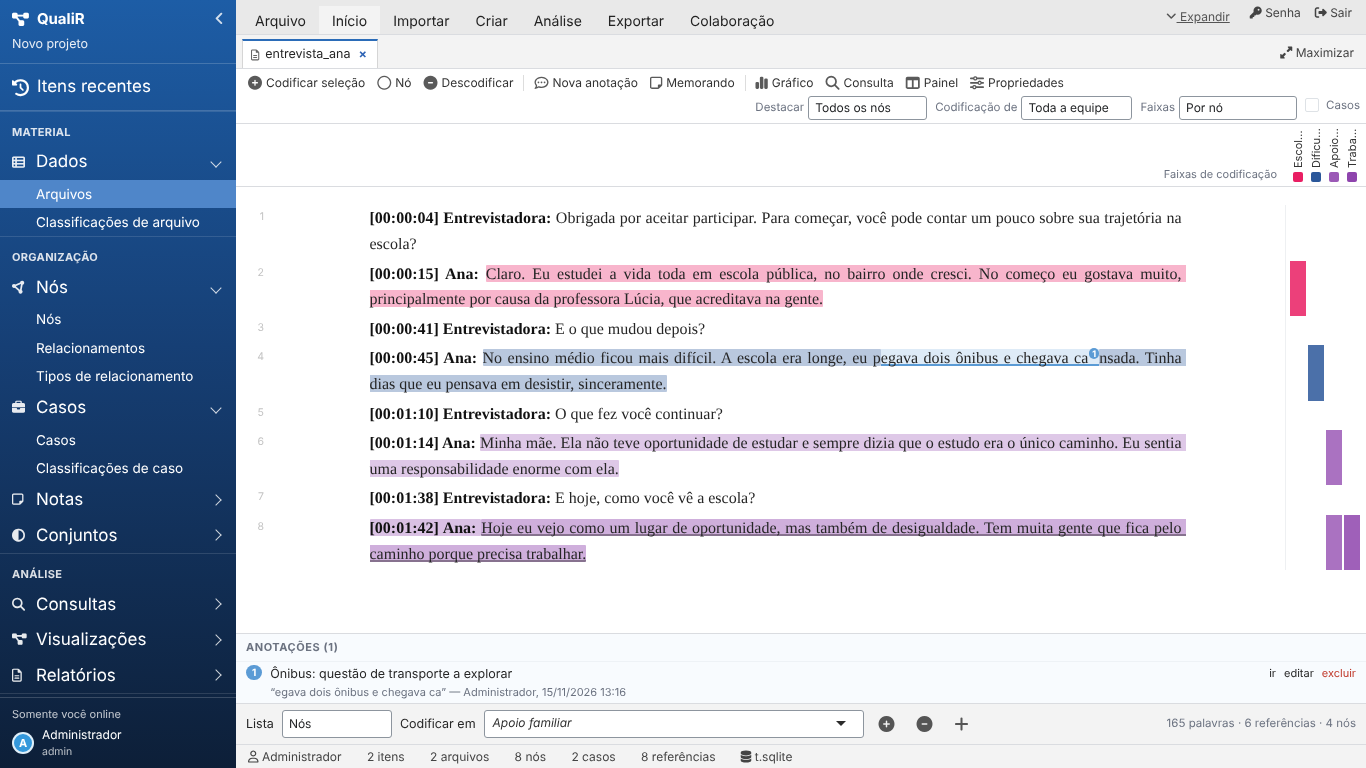
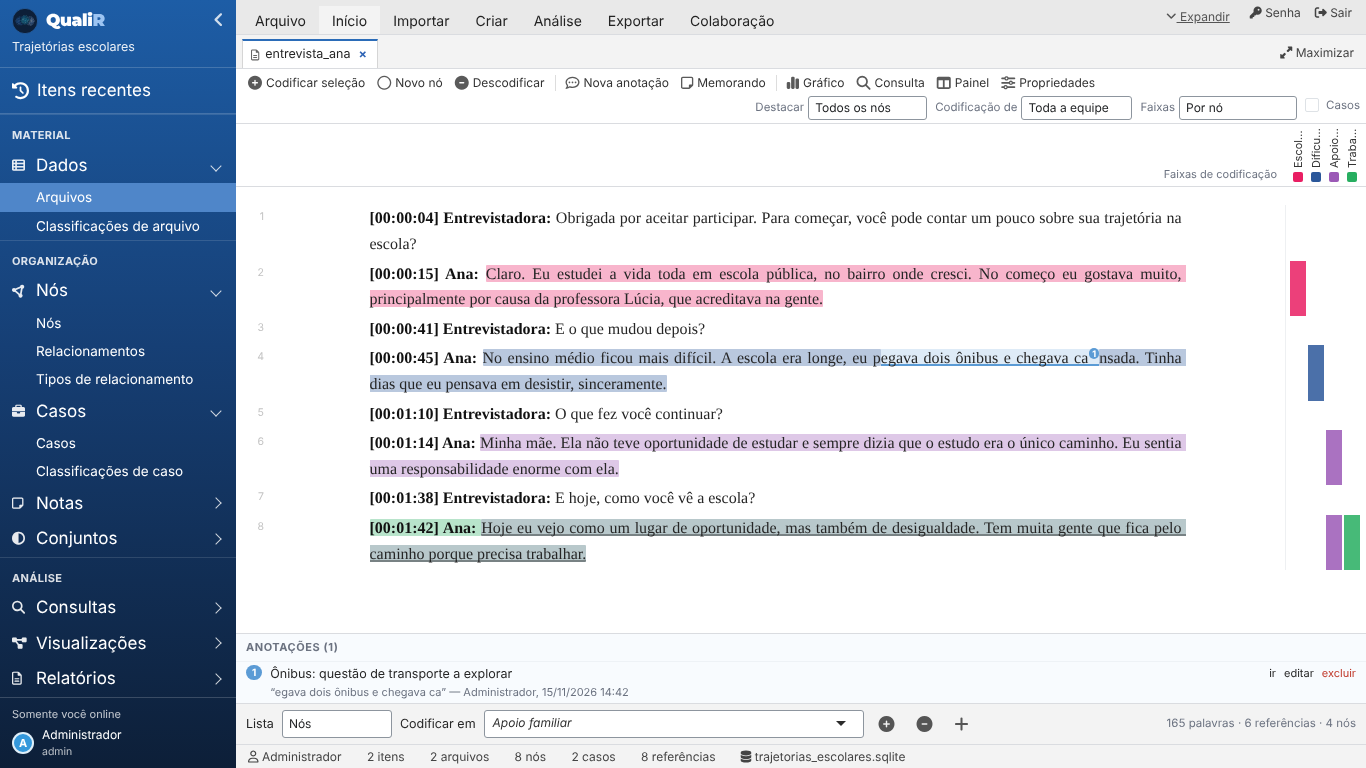
Adiciona logomarca

diff --git a/www/qualir.css b/www/qualir.css
@@ -13,7 +13,8 @@ a{color:#2F64B5;}
 .login-wrap{height:100vh;display:flex;align-items:center;justify-content:center;
   background:linear-gradient(160deg,#2A6BC0 0%,#174A85 50%,#0B1A2E 100%);}
 .login-card{background:#fff;width:360px;padding:30px 32px;border-radius:6px;box-shadow:0 12px 40px rgba(0,0,0,.35);}
-.login-logo{font-size:28px;font-weight:600;color:var(--qr-main);display:flex;gap:10px;align-items:center;}
+.login-logo{display:flex;justify-content:center;margin:-6px 0 14px;}
+.login-logo img{display:block;filter:drop-shadow(0 4px 10px rgba(13,31,56,.25));}
 .login-sub{color:var(--qr-muted);margin-bottom:14px;}
 .login-proj{background:var(--qr-light);padding:6px 10px;border-radius:4px;margin-bottom:14px;font-weight:600;}
 .login-msg{color:#C0392B;margin-top:10px;min-height:20px;}
@@ -28,7 +29,10 @@ a{color:#2F64B5;}
 #sidebar.collapsed{width:44px;flex-basis:44px;}
 #sidebar.collapsed .sb-scroll,#sidebar.collapsed .sb-proj,#sidebar.collapsed .sb-user,#sidebar.collapsed .sb-logo b{display:none;}
 .sb-top{padding:8px 12px 10px;border-bottom:1px solid rgba(255,255,255,.18);}
-.sb-logo{display:flex;align-items:center;gap:8px;font-size:15px;}
+.sb-logo{display:flex;align-items:center;gap:8px;font-size:17px;}
+.sb-logo b{font-family:Montserrat,"Segoe UI",system-ui,sans-serif;font-weight:900;letter-spacing:-.02em;}
+.sb-logo .sb-r{color:#9CC4F2;}
+.sb-icon{flex:0 0 26px;border-radius:50%;}
 .sb-logo #sb-toggle{margin-left:auto;color:#fff;opacity:.8;text-decoration:none;}
 #sidebar.collapsed #sb-toggle i{transform:rotate(180deg);}
 .sb-proj{font-size:12.5px;opacity:.9;margin-top:4px;white-space:nowrap;overflow:hidden;text-overflow:ellipsis;}

diff --git a/README.md b/README.md
@@ -1,3 +1,7 @@
+<p align="center">
+  <img src="docs/logo/qualir-horizontal.png" alt="QualiR — Análise qualitativa colaborativa" width="520">
+</p>
+
 # QualiR
 
 **Análise qualitativa de textos e transcrições em R, para trabalhar sozinho ou em equipe.**
@@ -70,9 +74,14 @@ R/                     código (projetos, banco de dados, importação, análise
 www/                   estilo (CSS) e interações (JavaScript)
 exemplos/              duas transcrições fictícias para teste
 docs/img/              imagens do manual
+docs/logo/             logomarca (SVG e PNG, em vários tamanhos)
 projetos/              seus projetos (criada automaticamente; não vai para o GitHub)
 MANUAL.md              manual de uso
 ```
+
+## Logomarca
+
+Os arquivos da logomarca estão em [`docs/logo`](docs/logo): o selo completo (`qualir-selo`), o símbolo sem texto (`qualir-icone`), uma versão simplificada para tamanhos pequenos (`qualir-icone-simples`) e a versão horizontal para documentos e apresentações (`qualir-horizontal`, também em fundo escuro). Prefira os PNG quando o texto do selo precisar aparecer exatamente igual (os SVG com texto dependem das fontes Montserrat e Inter instaladas).
 
 ## Licença
 
